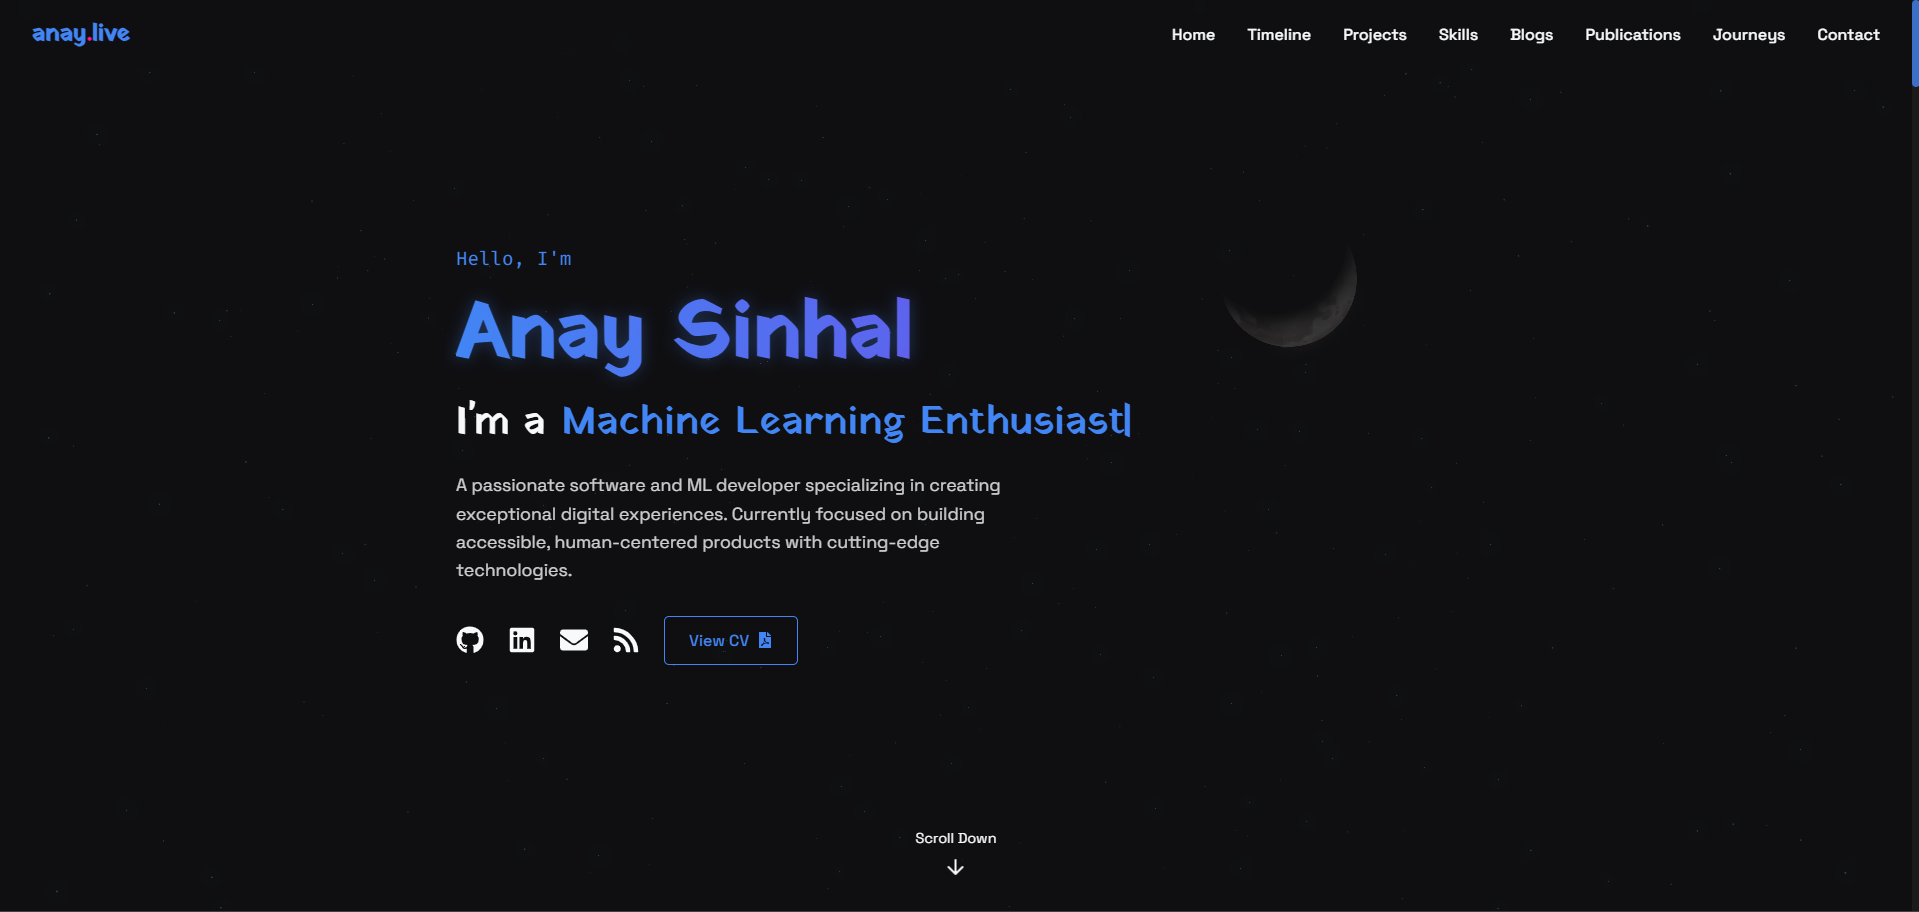
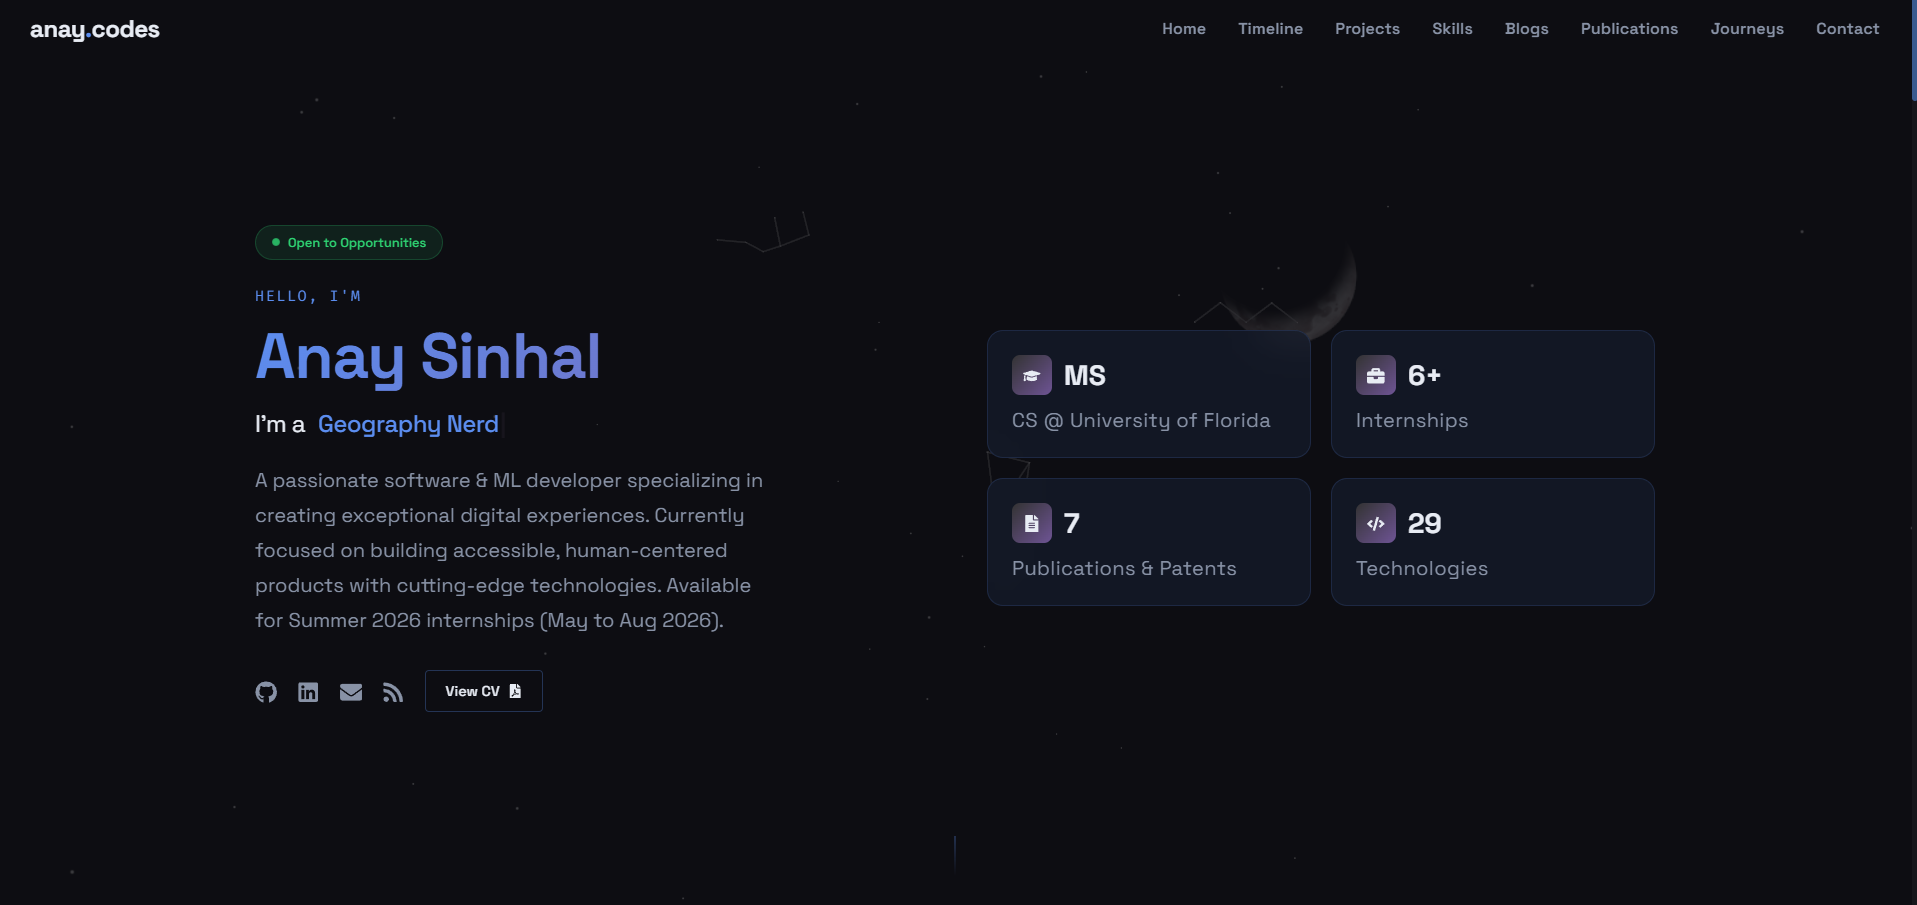
feat: update live website link and enhance content sections in README

diff --git a/README.md b/README.md
@@ -6,7 +6,7 @@
 
 [![Cosmic Portfolio](./public/demo/demo-home.png)](https://anaysinhal.vercel.app/)
 
-### 🔗 **Live Website**: [https://anaysinhal.vercel.app/](https://anaysinhal.vercel.app/)
+### 🔗 **Live Website**: [anay.codes](https://www.anay.codes/)
 
 ---
 
@@ -23,20 +23,18 @@ Cosmic Portfolio is a cutting-edge, responsive single-page application that pres
 * **📱 Fully Responsive Design**: Seamless experience across all devices and screen sizes
 * **🎭 Advanced Animations**: Smooth, purposeful animations using Framer Motion with scroll-triggered effects
 
-### **Dynamic Content Integration**
-
-* **🔗 GitHub Projects API**: Real-time fetching and display of repositories with advanced filtering and sorting
-* **📝 Hashnode Blog Integration**: Automatic blog post synchronization with rich content display
-* **💼 Professional Timeline**: Interactive education and experience timeline with organization logos
-* **🏆 Certifications & Publications**: Dedicated sections for academic and professional achievements
-
-### **Interactive Sections**
+### **Content Sections**
 
 * **🌟 Hero Section**: Captivating introduction with typed text animations and social links
 * **🛠 Skills Showcase**: Interactive tech stack grid with hover effects and official resource links
+* **💼 Professional Timeline**: Interactive education and experience timeline with organization logos
 * **📂 Featured Projects**: Curated project gallery with live demos, source code links, and detailed descriptions
+* **📝 Blog Integration**: Automatic blog post synchronization from Hashnode with rich content display
+* **📚 Publications**: Academic publications and research papers display
+* **🏆 Certifications**: Professional certifications and achievements (currently disabled)
 * **🗺 Cosmic Journeys**: Interactive world map showing travel experiences with dynamic zoom and region switching
 * **📬 Contact Form**: Integrated EmailJS-powered contact system with form validation
+* **📄 CV Viewer**: Dedicated page for viewing the full CV as a PDF
 * **📱 Social Integration**: Seamless links to GitHub, LinkedIn, blog, and CV
 
 ### **Advanced Technical Features**
@@ -72,12 +70,6 @@ Built with a carefully selected modern technology stack for optimal performance 
 * **📊 D3 (d3-fetch, d3-scale) 4.0** - Data manipulation and scaling utilities
 * **🗺 Supercluster 8.0** - Fast geospatial point clustering for map optimization
 
-### **Charts & Advanced Visualization**
-
-* **📈 AMCharts 5.11** - Professional charting library with extensive features
-* **🔤 AMCharts 5 Fonts** - Typography and icon fonts for charts
-* **🌍 AMCharts 5 GeoData** - Geographic data for advanced map visualizations
-
 ### **Communication & UX**
 
 * **📧 EmailJS 4.3** - Direct email sending from frontend contact forms
@@ -110,6 +102,8 @@ cosmic-portfolio/
 │   │   ├── 🖼 custom-4.png
 │   │   ├── 🖼 custom-5.png
 │   │   └── 🖼 custom-6.png
+│   ├── 📄 CV_Sinhal_Anay.pdf     # CV PDF for the CV Viewer
+│   ├── 📄 main.tex               # LaTeX source for CV generation
 │   └── 📁 textures/              # 3D background textures
 │       └── 🌙 2k_moon.jpg        # High-resolution moon texture
 ├── 📁 src/
@@ -127,24 +121,25 @@ cosmic-portfolio/
 │   │   ├── 🧭 Navigation.js      # Responsive navigation bar
 │   │   ├── 👥 SocialLinks.js     # Social media link components
 │   │   ├── ⌨ TypedText.js       # Typing animation component
-│   │   └── 🦶 Footer.js          # Site footer with credits
+│   │   ├── 🦶 Footer.js          # Site footer with credits
+│   │   └── 📄 CVViewer.js        # PDF CV viewer component
 │   │
 │   ├── ⚙ config/               # Configuration and data management
 │   │   ├── 👤 personalInfo.js    # All personal content and data
 │   │   └── 🎨 theme.js           # Design system and theme tokens
 │   │
 │   ├── 🎣 hooks/                # Custom React hooks for API integration
-│   │   ├── 📦 useGitHubProjects.js  # GitHub REST API integration
+│   │   ├── 📦 useGitHubProjects.js  # GitHub REST API integration (unused)
 │   │   └── 📝 useHashnodeBlogs.js   # Hashnode GraphQL API integration
 │   │
 │   ├── 📑 sections/             # Major page sections and features
 │   │   ├── 🦸 Hero.js            # Landing section with introduction
 │   │   ├── 🛠 Skills.js          # Interactive tech stack showcase
-│   │   ├── 📈 Timeline.js        # Education and experience timeline
+│   │   ├── � Timeline.js        # Education and experience timeline
 │   │   ├── 📂 Projects.js        # Featured projects gallery
 │   │   ├── 📝 Blogs.js           # Blog posts integration
-│   │   ├── 🏆 Publications.js    # Academic publications display
-│   │   ├── 🎓 Certifications.js  # Professional certifications
+│   │   ├── 📚 Publications.js    # Academic publications display
+│   │   ├── 🏆 Certifications.js  # Professional certifications (disabled)
 │   │   ├── 🗺 CosmicJourneys.js  # Interactive travel map
 │   │   ├── 📬 Contact.js         # Contact form with EmailJS
 │   │   ├── 🗺 in.json           # India map TopoJSON data
@@ -154,8 +149,6 @@ cosmic-portfolio/
 │       └── 🌐 GlobalStyles.js    # Styled-components global styles
 │
 ├── 📦 package.json              # Dependencies and build scripts
-├── 📖 README.md                 # Project documentation (this file)
-└── 🤖 AGENT.md                 # Development and architecture guide
 ```
 
 ### **Architecture Highlights**
@@ -173,7 +166,7 @@ cosmic-portfolio/
 
 Before you begin, ensure you have these tools installed:
 
-* **Node.js** (v18.x or higher) - [Download here](https://nodejs.org/)
+* **Node.js** (v24.x) - [Download here](https://nodejs.org/)
 * **npm** (comes with Node.js) or **yarn** - Package manager
 * **Git** - Version control system
 
@@ -314,7 +307,7 @@ Edit `src/config/personalInfo.js` to update:
 * **💼 Experience**: Work experience with logos, dates, and descriptions
 * **🎓 Education**: Academic background and achievements
 * **📝 Projects**: Custom project showcase with images and links
-* **🏆 Certifications**: Professional certifications and credentials
+* **🏆 Certifications**: Professional certifications and credentials (currently commented out)
 * **📚 Publications**: Academic papers and research publications
 * **🗺 Travel Journeys**: Places visited with coordinates and stories
 * **⚙ API Configuration**: GitHub and Hashnode usernames, EmailJS settings
@@ -346,10 +339,13 @@ Each section can be customized independently:
 * **`Hero.js`**: Landing page introduction and social links
 * **`Skills.js`**: Technology showcase with icons and descriptions
 * **`Timeline.js`**: Professional and educational timeline
-* **`Projects.js`**: Featured projects gallery
+* **`Projects.js`**: Featured projects gallery (uses custom projects from personalInfo)
 * **`Blogs.js`**: Blog integration settings
+* **`Publications.js`**: Academic publications display
+* **`Certifications.js`**: Professional certifications (currently disabled)
 * **`CosmicJourneys.js`**: Travel map configuration
 * **`Contact.js`**: Contact form styling and validation
+* **`CVViewer.js`**: CV PDF viewer (displays /CV_Sinhal_Anay.pdf)
 
 ### **Environment Configuration**
 
@@ -361,7 +357,7 @@ REACT_APP_EMAILJS_SERVICE_ID=your_dev_service_id
 REACT_APP_EMAILJS_TEMPLATE_ID=your_dev_template_id
 REACT_APP_EMAILJS_PUBLIC_KEY=your_dev_public_key
 
-# Optional: GitHub API token for higher rate limits
+# Optional: GitHub API token for higher rate limits (currently unused)
 REACT_APP_GITHUB_TOKEN=your_github_token
 ```
 
@@ -428,6 +424,7 @@ This project is open source and available under the [MIT License](LICENSE).
 
 * **📧 Email**: [sinhal.anay@ufl.edu](mailto:sinhal.anay@ufl.edu)
 * **💼 LinkedIn**: [linkedin.com/in/anaysinhal](https://linkedin.com/in/anaysinhal)
+* **📄 CV**: [View CV](https://anaysinhal.vercel.app/cv)
 ---
 
 ⭐ **Star this repository if you found it helpful!** ⭐
